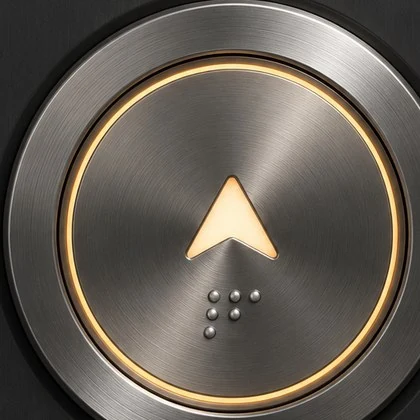
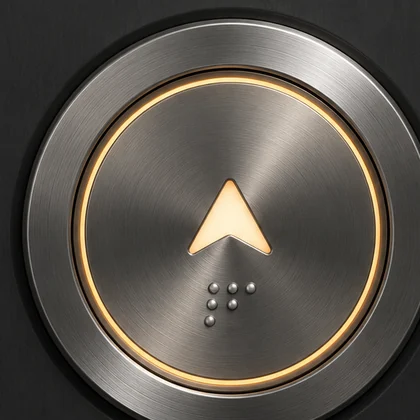
Ascensor: el circulo ya no rebana el bisel, y la miniatura muestra el reposo (v=235)

diff --git a/docs/app.js b/docs/app.js
@@ -2,7 +2,7 @@
 // Sin él se queda pegado en el caché del CDN (4 h) aunque app.js sí se renueve:
 // pasó al cambiar el authDomain a auth.viyi.ai. Súbelo junto con el de
 // index.html cada vez que cambie firebase-config.js.
-import { firebaseConfig, FUNCTIONS_REGION, NOMBRE_CONDOMINIO } from './firebase-config.js?v=234';
+import { firebaseConfig, FUNCTIONS_REGION, NOMBRE_CONDOMINIO } from './firebase-config.js?v=235';
 
 const $ = (id) => document.getElementById(id);
 const VISTAS = ['vista-cargando', 'vista-config', 'vista-email', 'vista-login', 'vista-registro', 'vista-sin-acceso', 'vista-panel'];
@@ -216,7 +216,7 @@ async function iniciar() {
   const ASPECTOS_IMAGEN = {
     bordado: { img: 'bordado.jpg?v=1', clase: 'boton-bordado' },
     hal: { img: 'hal.jpg?v=1', clase: 'boton-hal' },
-    ascensor: { img: 'ascensor.webp?v=1', clase: 'boton-ascensor' },
+    ascensor: { img: 'ascensor.webp?v=2', clase: 'boton-ascensor' },
   };
 
   // ---- Galería de skins (colección `skins` de Firestore) ----
@@ -3041,7 +3041,13 @@ async function iniciar() {
         : { clase: '', html: `<img src="${a.imgMuestra}" alt="">` };
     }
     if (a.id === 'argentina') return { clase: '', html: '<img src="argentina-frente.jpg?v=2" alt="">' };
-    if (ASPECTOS_IMAGEN[a.id]) return { clase: '', html: `<img src="${ASPECTOS_IMAGEN[a.id].img}" alt="">` };
+    if (ASPECTOS_IMAGEN[a.id]) {
+      // La miniatura lleva la MISMA clase del aspecto para que muestre su
+      // estado en reposo. Sin esto, el ascensor se previsualizaba con el aro
+      // ámbar encendido y el botón de verdad aparecía apagado: la miniatura
+      // prometía algo distinto de lo que ibas a ver.
+      return { clase: ASPECTOS_IMAGEN[a.id].clase || '', html: `<img src="${ASPECTOS_IMAGEN[a.id].img}" alt="">` };
+    }
     if (a.id === 'jet') return { clase: 'muestra-jet', html: '' };
     // Normal y las pieles: el icono del propio dispositivo, con la piel puesta.
     return { clase: a.piel ? `piel-${a.id}` : '', html: iconoDe(d) };

diff --git a/docs/index.html b/docs/index.html
@@ -15,7 +15,7 @@
        fuente del sistema y la propia entra cuando baja. -->
   <link rel="stylesheet" href="https://fonts.googleapis.com/css2?family=Josefin+Sans:wght@300;400;600&family=Fredoka:wght@500;600&display=swap" media="print" onload="this.media='all'">
   <noscript><link rel="stylesheet" href="https://fonts.googleapis.com/css2?family=Josefin+Sans:wght@300;400;600&family=Fredoka:wght@500;600&display=swap"></noscript>
-  <link rel="stylesheet" href="styles.css?v=234">
+  <link rel="stylesheet" href="styles.css?v=235">
 </head>
 <body>
   <header>
@@ -288,6 +288,6 @@
 
   <div id="toast" class="oculto" role="status"></div>
 
-  <script type="module" src="app.js?v=234"></script>
+  <script type="module" src="app.js?v=235"></script>
 </body>
 </html>

diff --git a/docs/styles.css b/docs/styles.css
@@ -2634,3 +2634,9 @@ input:checked ~ .pase-tgl::before {
   box-shadow: 9px 9px 18px var(--sombra-oscura), -9px -9px 18px var(--sombra-clara),
               0 0 30px 7px rgba(255, 176, 62, 0.7);
 }
+
+/* La miniatura del Locker no usa .boton-logo sino .skin-muestra img, así que
+   el reposo del ascensor hay que apagárselo también aquí. */
+.skin-muestra.boton-ascensor img {
+  filter: saturate(0.12) brightness(0.68);
+}
